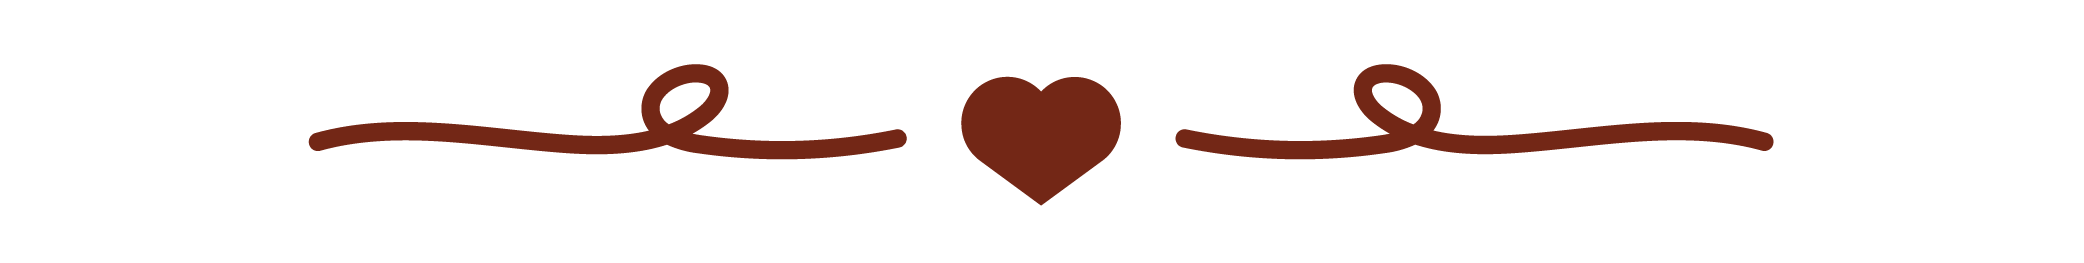
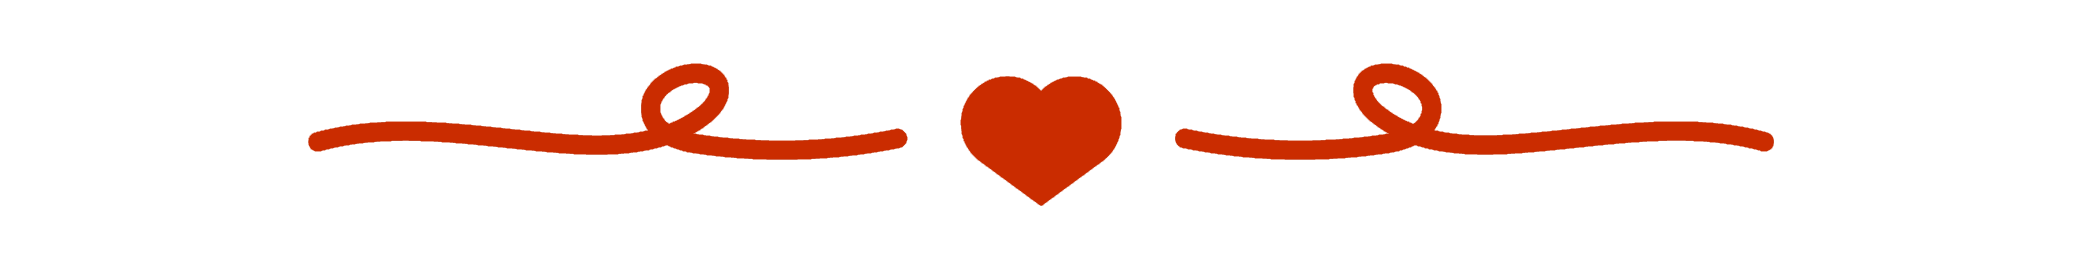
added association page

Changed region(s): [[0.1248, 0.2433, 0.8733, 0.7605]]

diff --git a/src/components/pages/Contact.js b/src/components/pages/Contact.js
@@ -78,9 +78,9 @@ const Contact = () => {
                             <span>
                                 <span className="d-block fw-bold">O'Creations Sellerie</span>
                                 <div className="d-flex justify-content-around">
-                                    <a href="https://www.ocreations.fr/?gad_source=1&gclid=CjwKCAjw7s20BhBFEiwABVIMrbJlLcHNq_psN-Q7juxDnbpm5VVlAHm7Rd5YWP2BEMXgYJq-18eJWRoC9iYQAvD_BwE" className="span-saddle fw-bold" target='_blank'><i class="fa-solid fa-globe"></i></a>
-                                    <a href="https://www.facebook.com/o.creations.sellerie/" className="span-saddle fw-bold" target='_blank'><i class="fa-brands fa-facebook-f"></i></a>
-                                    <a href="https://www.instagram.com/o.creations.officiel?igsh=MXhmemttZ2V6em53OA==" className="span-saddle fw-bold" target='_blank'><i class="fa-brands fa-square-instagram"></i></a>
+                                    <a href="https://www.ocreations.fr/?gad_source=1&gclid=CjwKCAjw7s20BhBFEiwABVIMrbJlLcHNq_psN-Q7juxDnbpm5VVlAHm7Rd5YWP2BEMXgYJq-18eJWRoC9iYQAvD_BwE" className="span-saddle fw-bold" target='_blank'><i className="fa-solid fa-globe"></i></a>
+                                    <a href="https://www.facebook.com/o.creations.sellerie/" className="span-saddle fw-bold" target='_blank'><i className="fa-brands fa-facebook-f"></i></a>
+                                    <a href="https://www.instagram.com/o.creations.officiel?igsh=MXhmemttZ2V6em53OA==" className="span-saddle fw-bold" target='_blank'><i className="fa-brands fa-square-instagram"></i></a>
                                 </div>
                                 
                             </span>
@@ -90,7 +90,7 @@ const Contact = () => {
                             <span>
                                 <span className="d-block fw-bold">Cavasso</span>
                                 <div className="d-flex justify-content-around">
-                                    <a href="https://cavasso.fr" className="span-saddle fw-bold" target='_blank'><i class="fa-solid fa-globe"></i></a>
+                                    <a href="https://cavasso.fr" className="span-saddle fw-bold" target='_blank'><i className="fa-solid fa-globe"></i></a>
                                 </div>
                             </span>
                         </li>
@@ -99,7 +99,7 @@ const Contact = () => {
                             <span>   
                                 <span className="d-block fw-bold">Saddle fitting Lorraine</span>
                                 <div className="d-flex justify-content-around">
-                                    <a href="https://saddlefittinglorraine.fr/" className="span-saddle fw-bold" target='_blank'><i class="fa-solid fa-globe"></i></a>
+                                    <a href="https://saddlefittinglorraine.fr/" className="span-saddle fw-bold" target='_blank'><i className="fa-solid fa-globe"></i></a>
                                 </div>
                             </span>
                         </li>
@@ -108,7 +108,7 @@ const Contact = () => {
                             <span>
                                 <span className="d-block fw-bold">Rémi Champion : Préparateur physique</span>
                                 <div className="d-flex justify-content-around">
-                                    <a href="https://www.liber-key.com/" className="fw-bold" target='_blank'><i class="fa-solid fa-globe"></i></a>
+                                    <a href="https://www.liber-key.com/" className="fw-bold" target='_blank'><i className="fa-solid fa-globe"></i></a>
                                 </div>
                             </span>
                         </li>
@@ -117,7 +117,7 @@ const Contact = () => {
                             <span>
                                 <span className="d-block fw-bold">Christian Briquet : Dentiste équin</span> 
                                 <div className="d-flex justify-content-around">
-                                    <a href="0675742348"><i class="fa-solid fa-mobile-screen-button"></i></a>
+                                    <a href="0675742348"><i className="fa-solid fa-mobile-screen-button"></i></a>
                                 </div>
                             </span>
                         </li>

diff --git a/src/components/pages/Association.js b/src/components/pages/Association.js
@@ -1,0 +1,37 @@
+import { Link } from "react-router-dom";
+import associationLogo from "../../assets/images/association/logo-association.png";
+
+const Association = () => {
+    return (
+        <main id="main" className="main main-association">
+            
+            <div className="container">
+                <section className="row">
+                    <div className="col-12 d-flex justify-content-center pt-5">
+                        <img src={ associationLogo } className="img img-fluid logo-assoc" alt="Le logo de l'association L'Ajot'Vial" />
+                    </div>
+                    <div className="col-12 txt-container text-center">
+                        <h4 className="mt-5 mb-3">
+                            L'Ajot'Vial vise à apporter un soutien concret et durable aux écuries de l'Ajot en aidant à leur fonctionnement et l'organisation d'événements.
+                        </h4>
+                        <p className="mb-1">Participez à l'aventure de L'Ajot'Vial et faisons-la grandir ensemble !</p>
+                        <p className="mb-4">Adhésion annuelle : 10€ - L'adhésion 2024 est offerte !</p>
+                        <Link className="link d-block" to="/contact">Pour plus d'informations <br />N'hésitez pas à me contacter.</Link>
+                    </div>
+                </section>
+
+                <section className="row">
+                    <h1 className="text-center mt-5">Événements à venir 2024-2025</h1>
+                    <div className="col-12 txt-container text-center">
+                        <h3 className="mt-3 mb-2">Repas de Noël</h3>
+                        <p>Célébrez les fêtes avec nous dans une ambiance conviviale avec un repas festif.</p>
+                        <h3 className="mt-4 mb-2">Vide sellerie</h3>
+                        <p>Une occasion idéale pour vendre, acheter ou échanger du matériel d'équitation et passer une bonne journée !</p>
+                    </div>
+                </section>
+            </div>
+        </main>
+    );
+};
+
+export default Association;

diff --git a/src/components/Footer.js b/src/components/Footer.js
@@ -1,17 +1,18 @@
 import logo from "../assets/images/logo.png";
+import logoNoTxt from "../assets/images/logo-no-txt.png";
 
 const Footer = () => {
 
+    const currentYear = new Date().getFullYear();
+
     return (
-        <footer id="main-footer" className="d-flex flex-column justify-content-center align-items-center">
-            <img src={ logo } alt="Le logo de l'écuries de l'Ajot" className="img img-fluid logo" />
-            <p className="mt-3 text-center">© Marie Bailly - Ecuries de l'Ajot | Tous droits réservés</p>
+        <footer id="main-footer" className="d-flex flex-column justify-content-center align-items-center pt-5">
+            <div className="line-footer mb-4"></div>
+            <img src={ logoNoTxt } alt="Le logo de l'écuries de l'Ajot" className="img img-fluid logo" />
+            <p className="mt-3 text-center">© { currentYear } - Marie Bailly - Ecuries de l'Ajot - Tous droits réservés</p>
             <p className="text-center">3 chemin de l'Ajot 51340 Pargny-sur-Saulx</p>
-            <a href="https://www.linkedin.com/in/robin-everaert/?originalSubdomain=fr" className="text-center d-flex align-items-center mt-4" target="_blank">
+            <a href="https://github.com/robin-everaert" className="text-center d-flex align-items-center mt-4" target="_blank">
                 <i className="fa-solid fa-code"></i><span>Site développé par Everaert Robin</span><i className="fa-solid fa-code"></i>
-            </a>
-            <a href="https://github.com/robin-everaert/ecuriesdelajot" className="text-center d-flex align-items-center" target="_blank">
-                <i className="fa-solid fa-code"></i><span>Voir le code source</span><i className="fa-solid fa-code"></i>
             </a>
         </footer>
     );

diff --git a/src/assets/styles/components/pages/home.scss b/src/assets/styles/components/pages/home.scss
@@ -26,13 +26,12 @@
         border-radius: none;
 
             h1, h3 {
-                color: $mainColor;
+                color: $secondColor;
             }
             a {
                 transition: all .3s;
                     &:hover {
-                        transform: scale(1.1);
-                        transition: all .3s;
+                        transform: scale(1.05);
                     }
             }
             img {
@@ -47,7 +46,7 @@
         background: $white;   
         background-size: cover;
         background-attachment: fixed;
-    
+
             .banner-home-content {
                 border-radius: 20px;
                 margin: 8vh;
@@ -55,19 +54,17 @@
                 background-color: rgba(255, 255, 255, .4);
             }
             img {
-    
                 width: 250px;
             }
             a {
-                background: $mainColor;
+                background: $secondColor;
                 padding: 5px 10px;
                 font-size: 1.6rem;
                 color: $white;
                 border-radius: 12px;
                 transition: .3s;
                     &:hover {
-                        transform: scale(1.1);
-                        transition: .3s;
+                        transform: scale(1.05);
                     }
             }
     }

diff --git a/src/components/pages/Price.js b/src/components/pages/Price.js
@@ -11,7 +11,7 @@ const Price = () => {
             <div className="price-table-container">
    
                 <section className="container price-table-pension-container">
-                    <h2 className="text-center pb-0 pt-md-3 mt-md-5">Pensions</h2>
+                    <h2 className="price-table-title text-center pb-0 pt-md-3 mt-md-5">Pensions</h2>
                     <div className="row">
                         {
                             priceTablesArray.slice(0, 2).map((p, i) => (
@@ -28,7 +28,7 @@ const Price = () => {
                             ))
                         }       
                     </div>   */}
-                    <h2 className="text-center pb-0 pt-md-3 mt-5">Séances bien-être</h2>
+                    <h2 className="price-table-title text-center pb-0 pt-md-3 mt-5">Séances bien-être</h2>
                     <div className="row">
                         {
                             priceTablesArray.slice(4, 6).map((p, i) => (

diff --git a/src/assets/styles/components/pages/price.scss b/src/assets/styles/components/pages/price.scss
@@ -5,7 +5,7 @@
     padding: 0;
 
         .price-table-header  {
-            background: $mainColor;
+            background: $secondColor;
             border-radius: 20px 20px 0 0 ;
             padding: 10px;
 
@@ -14,13 +14,14 @@
                 }
         }
         .price-table-body {
-            border: 3px solid $mainColor;
+            border: 1.5px solid $secondColor;
+            border-radius: 0 0 5px 5px;
 
             h3 {
                 font-size: 1.2rem;
             }
             span {
-                color: $secondColor;
+                color: $mainColor;
                 font-size: 1.2rem;
             }
             img {
@@ -29,7 +30,7 @@
             .separator {
                 width: 30%;
                 height: 2px;
-                background: $mainColor;
+                background: $secondColor;
             }
 
         }

diff --git a/src/assets/styles/components/_footer.scss b/src/assets/styles/components/_footer.scss
@@ -1,8 +1,11 @@
 #main-footer {
     color: $mainColor;
-    padding: 0;
-    margin-top: 4em;
-    
+
+    .line-footer {
+        height: 1px;
+        background: $secondColor;
+        width: 70%;
+    }
     .logo {
         width: 180px;
     }
@@ -12,10 +15,8 @@
     }
     a {
         color: $secondColor;
-        transition: all .3s;
             &:hover {
-                transform: scale(1.1);
-                transition: all .3s;
+                color: $mainColor;
             }
             span {
                 margin: 0 8px;
@@ -28,8 +29,8 @@
         margin-top: 0em;
         padding: 2em 0;
 
-        .logo {
-            width: 200px;
+        .line-footer {
+            width: 50%;
         }
         p, a {
             font-size: 1rem;

diff --git a/src/components/pages/Home.js b/src/components/pages/Home.js
@@ -84,7 +84,7 @@ const Home = () => {
                     </Link>
                     <Link to="/education" className='col-12 col-md-4'>
                         <img src={ serviceEducation } className="img img-fluid logo-no-txt" alt="Une adhérente de l'écuries de l'Ajot qui éduque un cheval" />
-                        <h3 className="font-title">Éducation</h3>
+                        <h3 className="font-title">Éducation du cheval</h3>
                     </Link>
                     <Link to="/seance-bien-etre" className='col-12 col-md-4'>
                         <img src={ serviceSejour } className="img img-fluid logo-no-txt" alt="Une adhérente de l'écuries de l'Ajot qui baigne son cheval" />

diff --git a/src/App.js b/src/App.js
@@ -10,6 +10,7 @@ import Stay from './components/pages/Stay';
 import Price from './components/pages/Price';
 import Pension from './components/pages/Pension';
 import Education from './components/pages/Education';
+import Association from './components/pages/Association';
  
 const App = () => {
   return (
@@ -24,6 +25,7 @@ const App = () => {
         <Route path="/education" element={ <Education /> } />
         <Route path='/seance-bien-etre' element={ <Stay /> } />
         <Route path='/tarif' element={ <Price /> } />
+        <Route path='/association' element={ <Association /> } />
         <Route path='/contact' element={ <Contact /> } />
       </Routes>
 

diff --git a/src/assets/styles/components/pages/contact.scss b/src/assets/styles/components/pages/contact.scss
@@ -2,13 +2,9 @@
 // Bubble : 
 .bubble-contact-content {
     color: $secondColor;
-    transition: all .3s;
         &:hover {
-            transform: scale(1.1);
-            transition: all .3s;
-            color: $secondColor;
+            color: $mainColor;
         }
-
         i {
             font-size: 2em;
             margin-top: 1em;
@@ -48,8 +44,7 @@
         border-radius: 8px;
         transition: all .3s;
             &:hover {
-                transform: scale(1.1);
-                transition: all .3s;
+                transform: scale(1.05);
             }
     }
     .form-response {

diff --git a/src/common/NavBar.js b/src/common/NavBar.js
@@ -26,6 +26,9 @@ const NavBar = () => {
                         <NavLink to="/tarif" className='btn btn-nav'>Tarifs</NavLink>
                     </li>
                     <li className="nav-item">
+                        <NavLink to="/association" className='btn btn-nav'>L'Ajot'Vial</NavLink>
+                    </li>
+                    <li className="nav-item">
                         <NavLink to="/contact" className='btn btn-nav'>Contact</NavLink>
                     </li>
                 </ul>

diff --git a/src/assets/styles/components/pages/association.scss b/src/assets/styles/components/pages/association.scss
@@ -1,0 +1,27 @@
+.main-association {
+
+    h3 {
+        font-size: 1.8rem;
+        color: $mainColor !important;
+    }
+    h4 {
+        color: $mainColor;
+        font-weight: bold;
+    }
+    .logo-assoc {
+        width: 280px;
+    }
+    .link {
+        color: $mainColor;
+        font-size: 1.4rem;
+
+        &:hover {
+            color: $secondColor;
+        }
+    }
+}
+@media(min-width: 768px) {
+    .logo-assoc {
+        width: 350px;
+    }
+}
